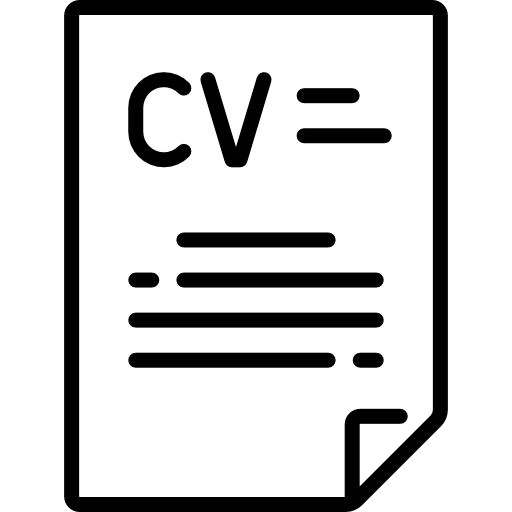
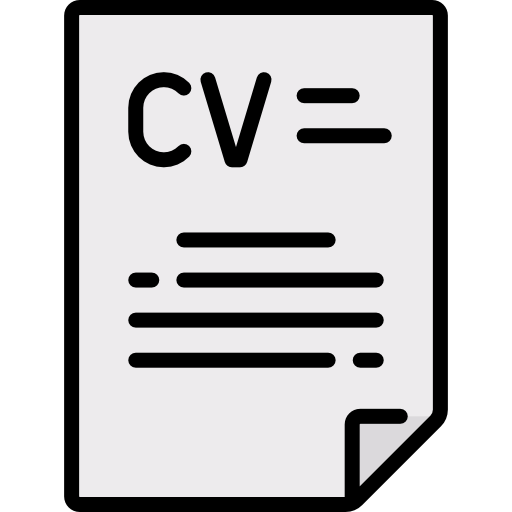
ajout du cv+ bouton + scripts pour modifier icone

Changed region(s): [[0.6875, 0.8125, 0.8438, 0.9375]]

diff --git a/index.html b/index.html
@@ -77,7 +77,7 @@
               </a>
             </li>
             <li class="cv">
-              <a href="./CV/SANDRINE CIPOLLA.pdf" download><img id="cv-icon"src="./images/cv.png "width="25px" alt="cv_SandrineCIPOLLA"></a>
+              <a href="./CV/SANDRINE CIPOLLA.pdf" download><img class="icone-contour"src="./images/cv.png "width="25px" alt="cv_SandrineCIPOLLA"></a>
             </li>
           </ul>
           <button class="burger"><span class="bar"></span></button>
@@ -362,7 +362,7 @@
           <div class="cv-button">
             <a href="./CV/SANDRINE CIPOLLA.pdf" download>
               <span class="cv-icon"><img src="./images/cv.png" alt="CV Icon" ></span>
-              <span class="cv-text">Télécharge mon CV</span>
+              <span class="cv-text">Téléchargez mon CV</span>
             </a>
           </div>
           

diff --git a/CSS/global.css b/CSS/global.css
@@ -191,9 +191,12 @@ section {
 }
 
 .socials .icon {
-    height: 22px;
+    height: 25px;
 }
-
+/* .icone-contour {
+    border: 1px solid black;
+    padding: 1px;
+} */
 .burger {
     background: none;
     border: none;
@@ -531,7 +534,7 @@ section {
     height: 30px;
     transition: transform 0.3s ease;
   }
-  
+
   /* .cv-button a:hover .cv-icon img {
     transform: rotate(180deg);
   } */
@@ -544,9 +547,9 @@ section {
     opacity: 0;
   }
   
-  .cv-button a:active .cv-icon img {
+  /* .cv-button a:active .cv-icon img {
     transform: scale(0.8) rotate(180deg);
-  }
+  } */
   .cv-button a.downloaded {
     background-color: #FF914D;
   }
